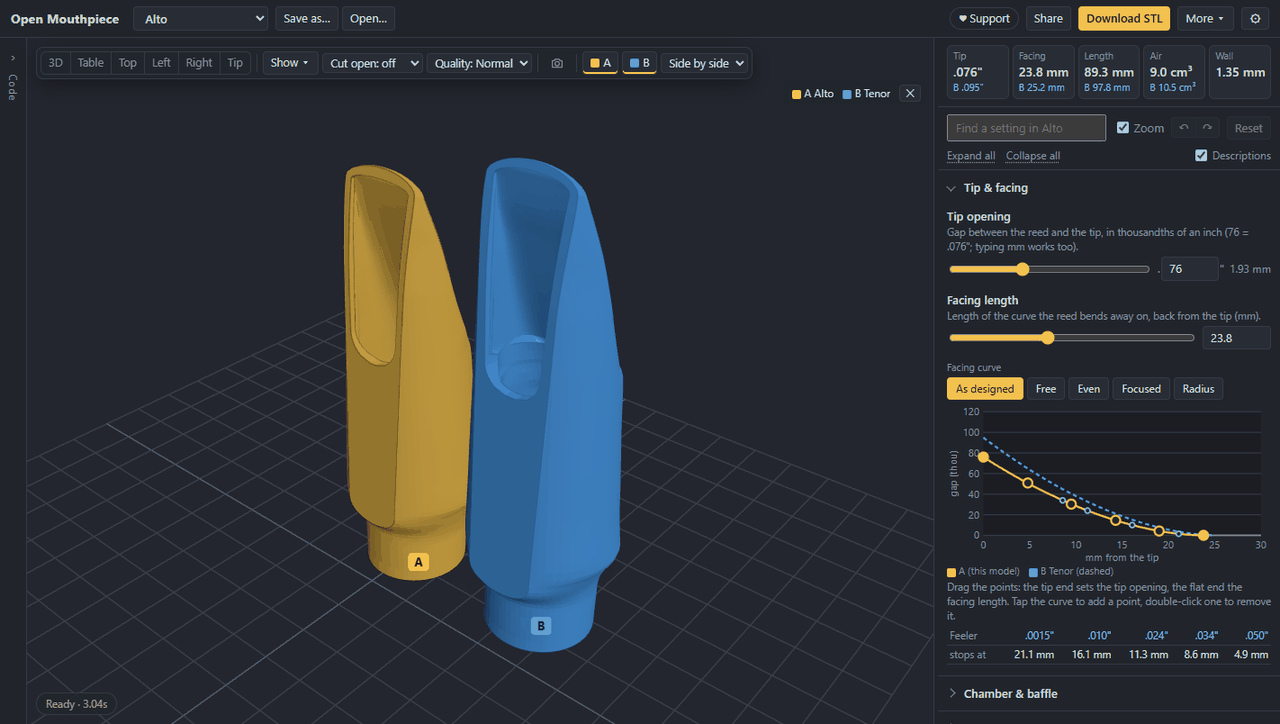
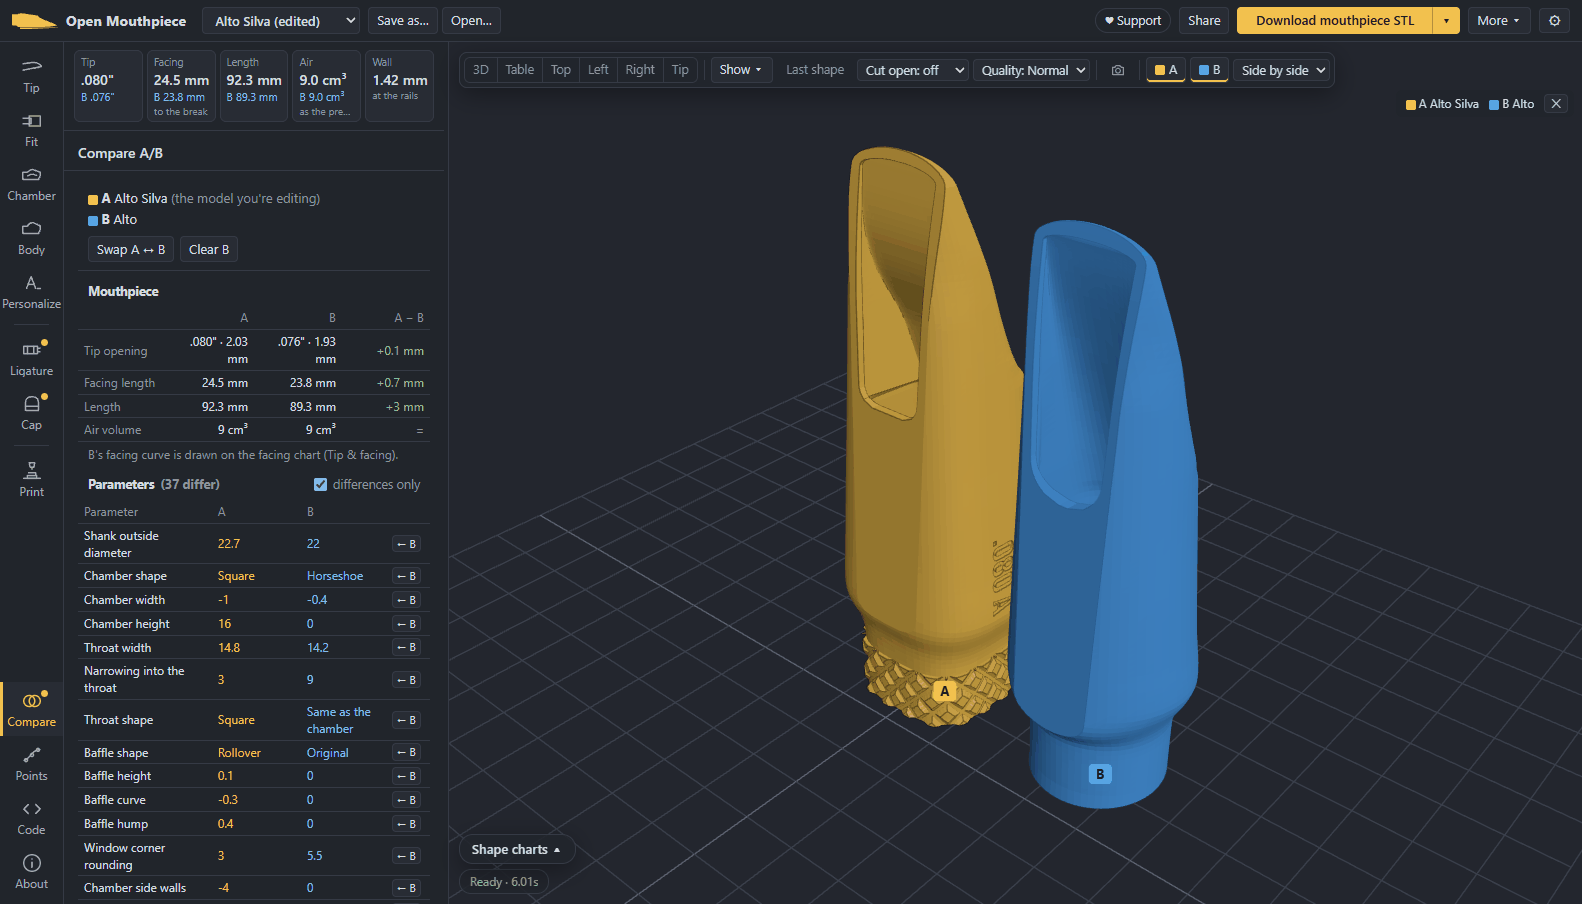
Docs: new screenshots, current layout and setting names

diff --git a/src/styles.css b/src/styles.css
@@ -1512,6 +1512,9 @@ button.toggle.on {
   border-radius: 0 4px 4px 0;
   border-left: none;
 }
+.design-head button {
+  white-space: nowrap;
+}
 .design-head .zoom-toggle {
   display: flex;
   align-items: center;
@@ -1886,7 +1889,7 @@ button.link:hover {
   padding: 0 6px;
 }
 .design-about {
-  margin: 8px 0 4px;
+  margin: 8px 10px 4px;
   font-size: 13px;
   line-height: 1.4;
 }

diff --git a/docs/GLOSSARY.md b/docs/GLOSSARY.md
@@ -2,7 +2,8 @@
 
 The names players and refacers use for the parts of a mouthpiece, and the settings in the app that
 change each one. Settings are given by their name in the app; [PARAMETERS.md](PARAMETERS.md) has
-every setting with pictures.
+every setting with pictures. Besides the sliders, **Shape charts** (under the view) show the facing,
+the outside and the inside, and **Edit shape** lets you drag their lines.
 
 ![Side view of the alto preset cut down the middle, with the reed in place: tip rail, tip opening,
 side rail, break point, facing curve, window, table, beak, baffle, chamber, floor, throat, bore,
@@ -15,13 +16,13 @@ shank](images/glossary-table.svg)
 
 | Part | What it is | Settings |
 |---|---|---|
-| **Table** (reed seat) | The flat where the reed's back lies and the ligature holds it. | **Reed length**, **Table width tip**, **Table width rear**, **Table concavity** |
-| **Window** | The opening in the table under the reed, between the rails. | **Window length**, **Window width**, **Window narrows at the back**, **Window rear radius** |
+| **Table** (reed seat) | The flat where the reed's back lies and the ligature holds it. | **Table length**, **Table width at the tip**, **Table width at the back**, **Table hollow** |
+| **Window** | The opening in the table under the reed, between the rails. | **Window length**, **Window width**, **Window narrows at the back**, **Window corner rounding** |
 | **Side rails** | The two edges along the window that the reed seals on. | **Side rail width** |
 | **Tip rail** (front rail) | The edge across the front that the reed closes against. | **Tip rail thickness**, **Tip roundness** |
-| **Facing** (lay) | The rails' gentle curve away from the reed, from the break point to the tip. Both rails need the same curve. | **Facing model**, **Where the curve opens** (or your own **Facing points**) |
-| **Break point** | Where the rails leave the flat table: the start of the facing. | **Facing curve length** sets how far it is from the tip |
-| **Facing length** | From the break point to the tip, in mm. | **Facing curve length** |
+| **Facing** (lay) | The rails' gentle curve away from the reed, from the break point to the tip. Both rails need the same curve. | **Facing curve**, **Where the curve opens**, or drag the points on the **Facing curve** chart |
+| **Break point** | Where the rails leave the flat table: the start of the facing. | **Facing length** sets how far it is from the tip |
+| **Facing length** | From the break point to the tip, in mm. | **Facing length** |
 | **Tip opening** | The gap between the reed and the tip rail, measured with a straightedge on the table. Often given in thousandths of an inch. | **Tip opening** |
 | **Chamfer** | A small bevel on the inside edge of the rails, around the window. | none: finish it by hand if you want one |
 
@@ -30,7 +31,7 @@ shank](images/glossary-table.svg)
 | Part | What it is | Settings |
 |---|---|---|
 | **Baffle** | The roof over the reed, just behind the tip rail. Common shapes: flat, rollover (rounded), step (a ledge), concave (scooped). | **Baffle shape**, **Baffle height**, **Where the baffle begins**, **Baffle curve**, **Baffle hump** |
-| **Floor** / **ramp** | The bottom of the inside, from the window's back edge to the throat. A ramp is a floor that slopes gradually away from the reed instead of dropping. | **Chamber floor**, **Chamber height** |
+| **Floor** / **ramp** | The bottom of the inside, from the window's back edge to the throat. A ramp is a floor that slopes gradually away from the reed instead of dropping. | **Chamber floor**, **Chamber height**; the floor line in **Edit shape** (Inside chart) |
 | **Side walls** | The inside walls on each side of the window, from the rails up to the roof: straight, leaning out (scooped) or leaning in. | **Chamber side walls** |
 | **Chamber** | The open space between the baffle and the throat. Its cross-section can be round, square or horseshoe. | **Chamber shape**, **Chamber width**, **Widening after the throat**, **How far the full width runs**, **Chamber height** |
 | **Throat** | The narrowest point inside, where the chamber meets the bore. | **Throat position**, **Throat width**, **Narrowing into the throat**, **Throat shape** |
@@ -42,16 +43,16 @@ shank](images/glossary-table.svg)
 
 | Part | What it is | Settings |
 |---|---|---|
-| **Beak** | The sloping top in front, from the tip back to the shoulder; it rests on the top teeth. | **Beak height at the tip**, **Beak curve**, **Beak top**, **Beak length** |
-| **Shoulder** | Where the beak meets the body. | **Beak length**, **Shoulder sweep** |
-| **Body** | The middle, at its widest and tallest; the ligature sits here. | **Body width**, **Body height**, **Body squareness** |
-| **Shank** | The back end, around the socket. | **Shank diameter** |
+| **Beak** | The sloping top in front, from the tip back to the shoulder; it rests on the top teeth. | **Beak height at the tip**, **Beak curve**, **Beak top**, **Beak top width**, **Beak length** |
+| **Shoulder** | Where the beak meets the body. | **Beak length**, **Shoulder smoothness**, **Shoulder sweep** |
+| **Body** | The middle, at its widest and tallest; the ligature sits here. | **Body width**, **Body height**, **Body cross-section**, **Sides near the table** |
+| **Shank** | The back end, around the socket. | **Shank outside diameter**; **Shank decoration** and **Text around the shank** (Personalize) |
 | **Length** | From the neck end to the tip. | **Length** |
 
 ## Around it
 
 | Part | What it is | In the app |
 |---|---|---|
-| **Reed** | Its heel lies on the table; its thin tip vibrates against the facing and tip rail. | **Reed length** matches the table to it |
-| **Ligature** | The band that holds the reed on the table. | the **Ligature** tab makes one to fit |
-| **Cap** | The cover over the tip and reed. | the **Cap** tab makes one to fit |
+| **Reed** | Its heel lies on the table; its thin tip vibrates against the facing and tip rail. | **Table length** matches the table to it |
+| **Ligature** | The band that holds the reed on the table. | **Ligature** (on the left) makes one to fit |
+| **Cap** | The cover over the tip and reed. | **Cap** (on the left) makes one to fit |

diff --git a/docs/PRINTING.md b/docs/PRINTING.md
@@ -4,12 +4,13 @@ A first print answers the questions no measurement can: does it fit the neck, do
 out accurate, and how does it play. This is the order that wastes the least plastic.
 
 Everything happens in the app (https://opensaxmouthpiece.org/): design your mouthpiece, then
-download its STL. The settings come in three tabs: **Mouthpiece**, **Ligature** and **Cap**; the
-Download button saves the part whose tab is open. In the Mouthpiece tab, the **Printing** section's
-**What to print** picks the mouthpiece or a shank test ring. Every download is already oriented for
-printing.
+download its STL. The buttons down the left (along the bottom on a phone) open each section:
+the mouthpiece's (Tip, Fit, Chamber, Body, Personalize), then **Ligature**, **Cap** and **Print**.
+The Download button saves the part you're working on; its **▾** lists everything else to download.
+**Print**'s **What to print** picks the mouthpiece or a shank test ring. Every download is already
+oriented for printing.
 
-Or take everything at once: **Download print kit** (Printing section, or More) makes one zip with
+Or take everything at once: **Download print kit** (in Print, or Download ▾) makes one zip with
 the mouthpiece, the three shank test rings below, the ligature if you made one, and a check card
 with the numbers to measure the print against (tip opening, facing stops).
 
@@ -29,13 +30,13 @@ Try them on your neck cork (lightly greased, as usual):
 Set **Cork squeeze** to the one that fit. If none fits, measure your cork with calipers in two
 directions (corks are often slightly oval), set the cork diameter and print the rings again.
 
-The socket's mouth has a bevel so it doesn't catch on the cork (**Shank entry bevel width** and
-**Bevel depth**, 1 mm each). A bevel much wider than it is deep gets hard to print without supports.
+The socket's mouth has a bevel so it doesn't catch on the cork (Fit on the horn -> More:
+**Lead-in at the opening** and **Lead-in length**, 1 mm each). A bevel much wider than it is long
+gets hard to print without supports.
 
 ## 2. Print the mouthpiece
 
-Set **What to print** back to *Mouthpiece*. Two ways to print it (Printing -> **Extra stock for
-finishing**):
+Set **What to print** back to *Mouthpiece*. Two ways to print it (Print -> **Extra to sand off**):
 
 - **0 (as designed):** try this first if your printer is accurate (resin, or a well-tuned FDM
   printer at fine layers).
@@ -86,8 +87,8 @@ fairer test of the design.
 The app's readouts give the targets:
 
 - **Tip opening:** the readout's tip opening, in mm and thousandths of an inch.
-- **Facing:** the facing chart lists where standard feeler gauges should stop along the facing, if
-  you want to check a print against it.
+- **Facing:** **Shape charts** (under the view) -> **Facing curve** -> **Feeler gauge stops** lists
+  where standard feeler gauges should stop along the facing, if you want to check a print against it.
 - **Air volume:** the air between the end of the neck and the tip. It stands in for the missing
   tip of the horn's cone, so it mostly decides where the mouthpiece plays in tune on the cork: more
   air, further on; less air, further out. There is no single right number (makers make smaller
@@ -101,7 +102,7 @@ The app's readouts give the targets:
 ## 4b. A ligature made for it (optional)
 
 Store-bought ligatures fit only mouthpieces close to the one they were made for. The app can make
-one from your design: the **Ligature** tab -> **Make a ligature for this mouthpiece**. It shows in grey on the
+one from your design: **Ligature** -> **Make a ligature for this mouthpiece**. It shows in grey on the
 mouthpiece; **Download ligature STL** gives the print. It's a ring, round over the top and shaped
 to the reed underneath, with a longer side (the tab) on top, toward the shank. The **reed** is
 the tight spot: it squeezes the reed 0.2 mm (**Reed grip**) and keeps a hair of gap to the body.
@@ -123,14 +124,14 @@ the tight spot: it squeezes the reed 0.2 mm (**Reed grip**) and keeps a hair of 
 
 ## 4c. A cap made for it (optional)
 
-A cap keeps the tip and reed safe in a bag. The **Cap** tab -> **Make a cap for this mouthpiece** builds one
+A cap keeps the tip and reed safe in a bag. **Cap** -> **Make a cap for this mouthpiece** builds one
 around your mouthpiece, reed and ligature, shown see-through (teal) on the mouthpiece; **Download
 cap STL** gives the print. Like a store-bought cap it is one smooth shell, tapering from its rim to
 a rounded tip, with a slot up from the rim and air holes in the end so the reed can dry; it slides
 on over the tip and the rim clips onto the ligature.
 
 - **Print** it standing on its rim, open end down (as downloaded), no supports; the closed end is a dome.
-- **Goes over:** the ligature made here (the **Ligature** tab) or a metal one. As on
+- **Goes over:** the ligature made here (**Ligature**) or a metal one. As on
   store-bought caps, a metal ligature's screws ride in the slot: it starts at the rim as a window as
   wide as the screws, so the cap needn't be big enough to cover them. Give the band's length,
   position and thickness and the screws' width and length, and set **Slot side** to the side
@@ -164,5 +165,6 @@ in tune (a tuner at A = 440). Then change one thing at a time:
 | Upper register flat when the low one is in tune (octaves narrow) | less inside air, or a harder reed |
 | Wobbles on the neck | re-do step 1 |
 
-After each change, compare the new version against the one you played: pin the old one as B in
-the app ("Pin as B") and look at the Compare tab (the air volume row) and the section view.
+After each change, compare the new version against the one you played: **Compare** -> **Pin this
+model as B** before changing it, then look at the readouts (the air volume row), the shape charts
+and the view cut open (**Cut open**).

diff --git a/README.md b/README.md
@@ -10,7 +10,7 @@
 **Design your own saxophone mouthpiece in the browser, then 3D-print it.**
 Try it: **https://opensaxmouthpiece.org**
 
-![The app: a mouthpiece, its readouts, and the tip and facing settings with the facing curve](docs/images/app.png)
+![The app: the section buttons down the left, the readouts and the tip and facing settings, and a variant with lettering and a knurled shank in the 3D view](docs/images/app.png)
 
 Change real design parameters (tip opening, facing, chamber, baffle, window, body and beak) and
 download a printable STL. Everything runs in your browser: no account, nothing to install, and
@@ -18,32 +18,38 @@ nothing is saved on a server.
 
 ## What it does
 
-- **Start from a preset**: soprano, alto, tenor or baritone, each with three variants.
+- **Start from a preset**: soprano, alto, tenor or baritone, each with three variants (Flamma,
+  Silva, Unda), plus a C-melody.
 - **Shape it in sax terms**: tip opening in thousandths, facing length and curve (drag it, or pick
-  one), chamber, baffle, window, body and beak.
-- **See the numbers**: tip, facing, length, inside air volume and thinnest wall, and where
-  feeler gauges stop along the facing.
+  one), chamber, baffle, window, body and beak. Every slider says what each end does.
+- **Drag the shape itself**: the shape charts under the view show the facing, the outside and the
+  inside from the side and in a slice across; **Edit shape** lets you pull their lines.
+- **See the numbers**: tip, facing, length, inside air volume (and where that sits on the cork) and
+  thinnest wall, and where feeler gauges stop along the facing.
 - **Fit your horn**: set your neck cork's diameter and how tight it should be; print a small test
   ring first to check.
-- **Make a matching ligature**: a ring ligature built from the mouthpiece's own shape.
-- **Compare A/B** with another design, or with an STL of a mouthpiece you have.
-- **Personalize it** with text or a picture on the body.
-- **Keep and share**: save in your browser, download a .scad (it opens in OpenSCAD) or the STL, or
-  send a link.
+- **Make a matching ligature and cap**: a ring ligature and a cap built from the mouthpiece's own
+  shape.
+- **Compare A/B** with another design, with the original, or with an STL of a mouthpiece you have.
+- **Personalize it**: text and pictures on the top, sides and shank, and rings, flutes, a spiral or
+  knurling around the shank.
+- **Keep and share**: save in your browser, download a .scad (it opens in OpenSCAD), the STL or a
+  whole print kit, or send a link.
 - Works on phones and tablets too.
 
 The generator keeps every realistic combination printable: walls, the socket and the window are
 limited so that no setting breaks the model.
 
-| Compare A/B | Ligature | Phone |
-|---|---|---|
-| ![Two mouthpieces side by side, with both facing curves](docs/images/compare.png) | ![A mouthpiece with a reed and a printed ring ligature](docs/images/ligature.png) | ![The app on a phone](docs/images/phone.png) |
+| Shape charts | Compare A/B |
+|---|---|
+| ![The outside chart in Edit shape: the side view with dots on the top and underside, a slice across it, and the view from above](docs/images/shape-charts.png) | ![A variant and the alto preset side by side, with the settings that differ](docs/images/compare.png) |
+| **Ligature and cap** | **Phone** |
+| ![A mouthpiece with its reed, a printed ring ligature and a see-through cap](docs/images/ligature.png) | ![The app on a phone: the view, the settings and the section bar along the bottom](docs/images/phone.png) |
 
 ## Status
 
-Early but usable. The alto and baritone presets have been printed and played; the tenor was
-reworked after its first print and is waiting for a reprint, and the variants and the ligature
-haven't been printed yet.
+Early but usable. The alto, tenor and baritone presets have been printed and played; the soprano,
+the variants, the C-melody, the ligature and the cap haven't been printed yet.
 [docs/PRINTING.md](docs/PRINTING.md) walks through printing, fitting and play-testing.
 Feedback and prints are welcome (open an issue).
 

diff --git a/docs/dev/APP.md b/docs/dev/APP.md
@@ -156,7 +156,7 @@ static site (docs/HOSTING.md).
   dots per line (`LINES`; ends where a line meets another part are pinned) drag up/down and set the
   generator's `*_adjust` offsets (`setPointList`, so undo, shares and downloads carry them). A top
   view for the widths shows while editing. The line previews during a drag; the model follows.
-- **Exact points** (was Curves; `CurveEditor.tsx`, `curves.ts`; the `*_adjust` lists are left out): every single-line top-level `name = [[a, b],
+- **Exact points** (the rail's Points; was Curves; `CurveEditor.tsx`, `curves.ts`; the `*_adjust` lists are left out): every single-line top-level `name = [[a, b],
   ...];` in the rendered file, named and grouped by part (`CURVE_GROUPS`; others under "Other"). PCHIP drawn exactly as the generator evaluates it; drag knots, click
   to add, Delete, typed values, Undo; edits are values (`setPointList`), so they work on presets,
   downloads and shares. Dashed = the model's curve from `curve_editor_curves()` (shows where a clamp
@@ -209,7 +209,8 @@ static site (docs/HOSTING.md).
   Hide / Beside / Download cap STL / Remove; the print kit and Save as take `<name>_cap.stl` when made.
   The Cap section's controls show once made. `part = cap` (an old link) still shows it alone, with
   `PartNote`. Items with `when` in `design.ts` show only for one value of another setting.
-- **Part tabs** (Mouthpiece | Ligature | Cap, over the settings; `partTab` in the session): each
+- **Part tabs** (no tab bar since layout B: the rail's Ligature and Cap open theirs, every other place
+  the mouthpiece's; `partTab` in the session): each
   `DesignSection` has a `tab` (default mouthpiece); other settings hide the other tabs' groups
   (`PART_GROUPS`: Ligature, Cap); a search looks in every tab. Opening a tab sets the view toggles as
   a start (`openPartTab`: the ligature's shows the ligature, not the cap; the cap's shows the cap and the

diff --git a/docs/dev/GEOMETRY.md b/docs/dev/GEOMETRY.md
@@ -144,7 +144,7 @@ bore/chamber over 4mm and is smooth-maxed to stay >= 0.4mm above the reed line (
 - Echo-only parts: `clearance_report` (thinnest wall), `facing_report` (facing gap per mm from the
   tip). `part` also has `shank_test_ring`, `interior_only` and `debug_*` pieces.
 - `curve_editor_curves()`: every `*_points` override's curve as the model has it (interior curves
-  sampled from `AIR_RINGS`, i.e. after the clamps); only evaluated when echoed (the app's Curves
+  sampled from `AIR_RINGS`, i.e. after the clamps); only evaluated when echoed (the app's Points
   panel). Add new overrides to it.
 - `param_focus()`: for "zoom to parameter": per parameter/list a box (design frame), a view side and
   whether it's inside (cut), plus the print transform. Add new parameters to it.
@@ -297,7 +297,7 @@ inside = that + `CAP_CLEARANCE` (0.5), shaped by `cap_shape` (conform, or `lig_r
 
 - **`*_points` overrides** are `[[z, value], ...]`, PCHIP-joined, prepared once (`pchip_prep`) and
   evaluated with `pchip_at` (binary search); add new ones the same way (and to
-  `curve_editor_curves()`). The Customizer can't edit nested lists; the app's Curves panel can.
+  `curve_editor_curves()`). The Customizer can't edit nested lists; the app's Points panel (Exact points) can.
 - **Renamed parameters** (2026-09-26): chamber_d -> chamber_width, bore_d -> bore_diameter,
   throat_z -> throat_position, throat_length -> throat_taper, chamber_position -> chamber_flare,
   chamber_length -> chamber_full_length (0 "all the way" -> 40), tip_thickness -> beak_tip_height,

diff --git a/docs/PARAMETERS.md b/docs/PARAMETERS.md
@@ -867,9 +867,9 @@ Presets: Alto `same` · Tenor `same` · Bari `same` · Soprano `same`.
 
 ### Shank decoration (`shank_detail`)
 
-Decoration on the shank's band: one ring, rings (ribbed) or flutes along it.
+Decoration on the shank's band: rounded rings, V flutes along it, a spiral or knurling.
 
-Range: `none`, `ring`, `rings`, `flutes`.
+Range: `none`, `rings`, `flutes`, `spiral`, `knurled`.
 
 Presets: Alto `none` · Tenor `none` · Bari `none` · Soprano `none`.
 
@@ -883,15 +883,15 @@ Presets: Alto `engraved` · Tenor `engraved` · Bari `engraved` · Soprano `engr
 
 ### How many (`shank_detail_count`)
 
-How many rings or flutes (rings: as many as fit).
+How many rings (as many as fit), flutes, spiral starts (up to 4) or knurl lines each way.
 
-Range: 2 to 40, step 1.
+Range: 1 to 40, step 1.
 
 Presets: Alto `3` · Tenor `3` · Bari `3` · Soprano `3`.
 
 ### Ring position (`shank_detail_position`)
 
-Where the single ring sits: 0 = by the neck end, 1 = by the flare.
+Where a single ring sits: 0 = by the neck end, 1 = by the flare.
 
 Range: 0 to 1, step 0.05.
 
